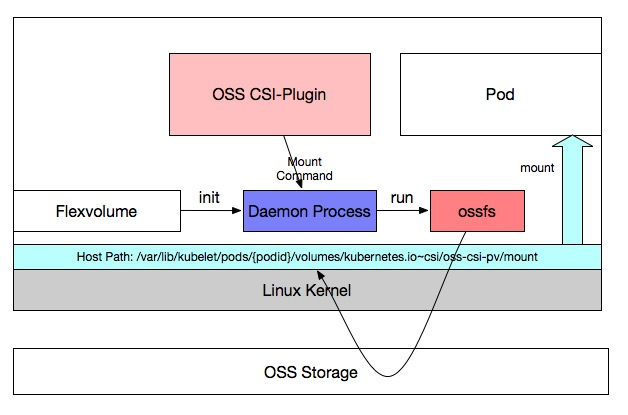
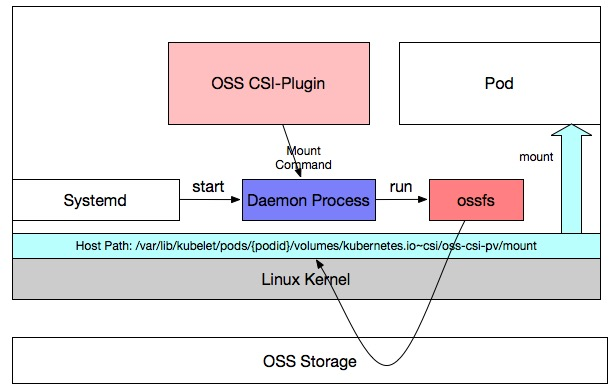
upgrade oss plugin

diff --git a/docs/oss-upgrade.md b/docs/oss-upgrade.md
@@ -35,13 +35,11 @@ Design:
 
 3. Csi-plugin communicate with daemon by unix socket;
 
-4. Daemon not be startup by csi-plugin or other pods, it is raised up by kubelet;
+4. Daemon not be startup by csi-plugin or other pods, it is raised up by systemd;
 
-5. Consider flexvolume init implementation. When csi-plugin startup, it install a flexvolume and the flexvolume "init" interface will be called.
+5. When oss csi plugin start up, use 'systemctl start' to setup dameon process.
 
-6. Flexvolume Init interface is to startup the daemon process.
-
-7. Daemon process runs ossfs command with "systemd-run --scope", which can continue the connection when daemon restart.
+6. Daemon process runs ossfs command with "systemd-run --scope", which can continue the connection when daemon restart.
 ```
 
 ![oss-upgrade.jpg](./oss-upgrade.jpg)
